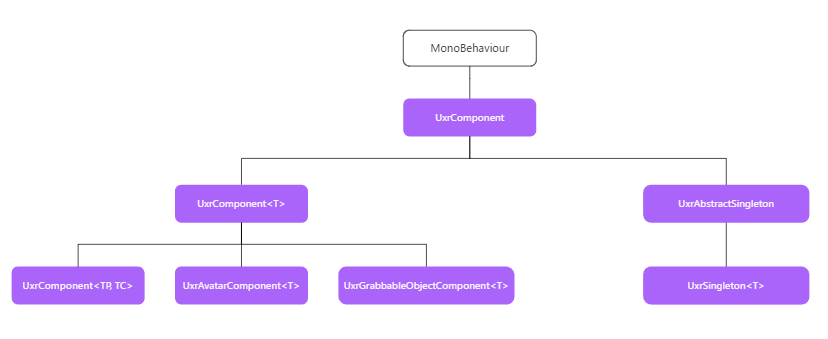
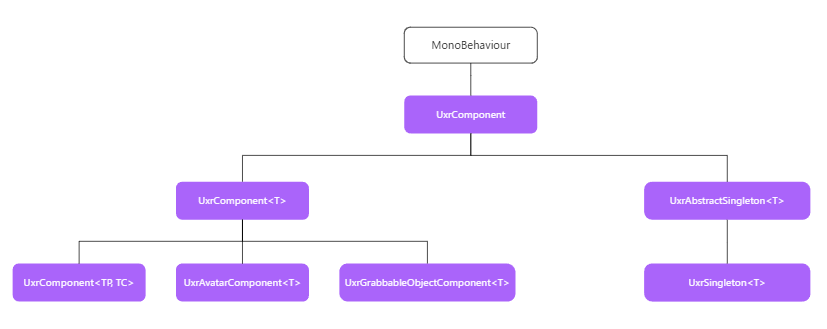
Update class diagram with core components overview

diff --git a/content/docs/programming-guide/architecture-class-diagram.md b/content/docs/programming-guide/architecture-class-diagram.md
@@ -24,4 +24,14 @@ Additionally, `UxrComponent` offers quick access to commonly used utilities to s
 Users can incorporate this functionality into their own components by inheriting from `UxrComponent` rather than `MonoBehaviour`.
 {{% /callout %}}
 
+## Core Components Overview
+
+- `UxrComponent`: Base class for all components in the framework.
+- `UxrComponent<T>`: Typed class version of `UxrComponent` with additional functionality to enumerate all component instances of type `T` and operate on them. For instance, `UxrAvatar` is defined as `class UxrAvatar : UxrComponent<UxrAvatar>`.
+  - `UxrComponent<TP, TC>`: Typed class version of `UxrComponent` used for components of type `TC` that are found in a hierarchy where a component of type `TP` is the root.  For instance, `UxrButton3D` is defined as `class UxrButton3D : UxrComponent<Canvas, UxrButton3D>`.
+  - `UxrAvatarComponent<T>`: `UxrComponent` of type `T` that can be found in a hierarchy under an `UxrAvatar`. For instance, `UxrFingerTip` is defined as `class UxrFingerTip : UxrAvatarComponent<UxrFingerTip>`.
+  - `UxrGrabbableObjectComponent<T>`: `UxrComponent` of type `T` that has an `UxrGrabbableObject` in the same `GameObject`. For instance, `UxrWeapon` is defined as `class UxrWeapon : UxrGrabbableObjectComponent<UxrWeapon>`.
+- `UxrAbstractSingleton<T>`: `UxrComponent` base class to build singletons for a type `T` that can be abstract. Abstract classes are used when the singleton being created is itself a base abstract class.
+  - `UxrSingleton<T>`: `UxrComponent` singleton for a type `T`. For example, the `UxrGrabManager` is defined as `class UxrGrabManager : UxrSingleton<UxrGrabManager>`.
+
 Let's start off by taking a closer look at `UxrComponent`.
